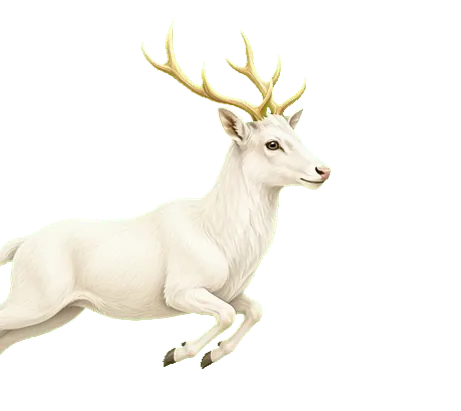
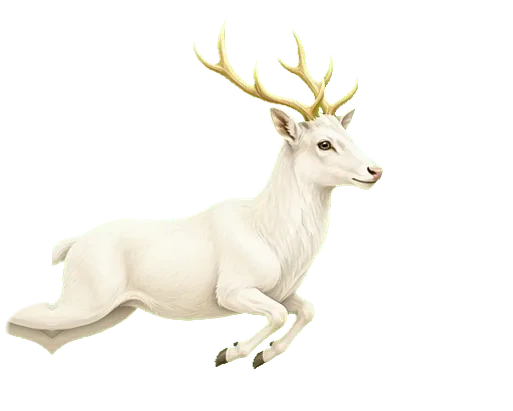
Doplň jelenovi zadek, když běží k Drběně
Běžící snímky měly zadek uříznutý o okraj obrázku.

diff --git a/src/game/runner.ts b/src/game/runner.ts
@@ -1038,7 +1038,7 @@ export class Runner {
 
   private loadFramesCounted(name: string, count = 4) {
     // Bradka je pryč ze snímků. Staré webp prohlížeč drží 4 hodiny, verze to obejde.
-    const v = name === "run" || name === "idle" || name === "look" ? "?v=5" : "";
+    const v = name === "run" || name === "idle" || name === "look" || name === "stag-run" ? "?v=5" : "";
     return Promise.all(
       Array.from({ length: count }, (_, i) => this.loadCounted(publicUrl(`/game/${name}/${i}.webp${v}`))),
     ).then((frames) => frames.filter((frame): frame is HTMLImageElement => frame !== null));
